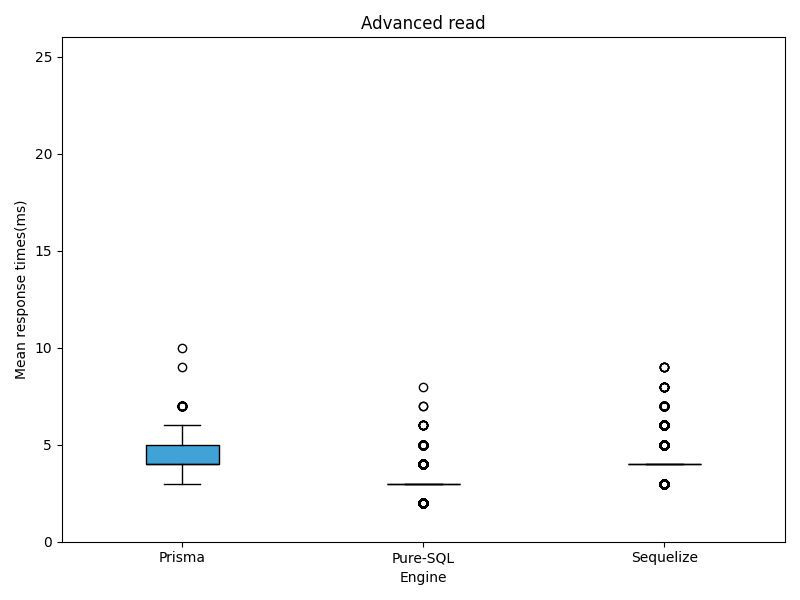
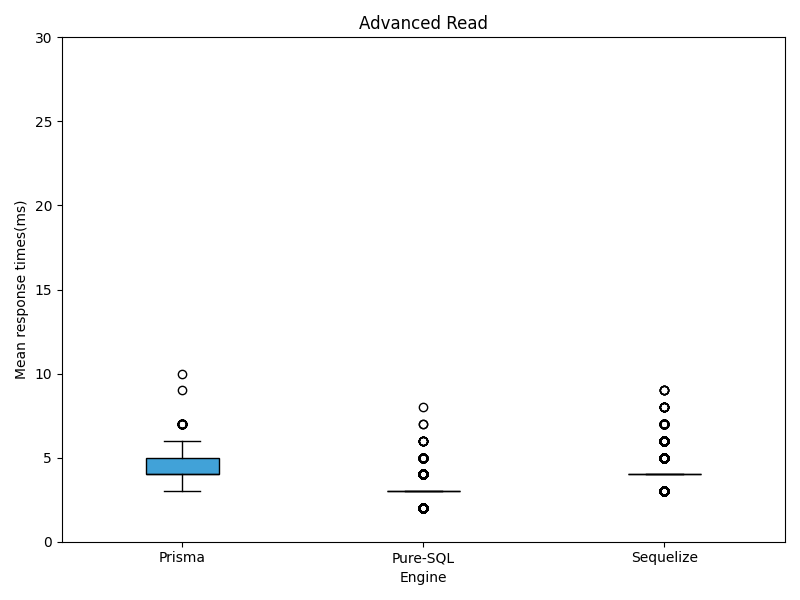
super speed graphs have been made

diff --git a/python-scripts/box-plot-speed-graph.py b/python-scripts/box-plot-speed-graph.py
@@ -7,7 +7,7 @@ import matplotlib.pyplot as plt
 import scipy.stats as stats
 import statsmodels.stats.api as sm
 
-Title = "Advanced read"        # Decides the title
+Title = "Read Respons Time"        # Decides the title
 
 def extract_newman_times(filename):
     with open(filename, 'r') as f:
@@ -17,26 +17,71 @@ def extract_newman_times(filename):
 
     return times_list
 
-prisma_times = extract_newman_times("reports/Select/report-Prisma_AdvancedSelect-10000-16-42-06.json")
-sequelize_times = extract_newman_times("reports/Select/report-Sequelize_AdvancedSelect-10000-15-24-00.json")
-sql_times = extract_newman_times("reports/Select/report-SQL_AdvancedSelect-10000-15-39-57.json")
+#--------------------#
+#  Postgres Results  #
+#--------------------#
+post_A_prisma_times = extract_newman_times("reports/Select/report-Prisma_AdvancedSelect-10000-16-42-06.json")
+post_A_sequelize_times = extract_newman_times("reports/Select/report-Sequelize_AdvancedSelect-10000-15-24-00.json")
+post_A_sql_times = extract_newman_times("reports/Select/report-SQL_AdvancedSelect-10000-15-39-57.json")
+post_S_prisma_times = extract_newman_times("reports/Select/report-Prisma_SimpleSelect-10000-16-22-29.json")
+post_S_sequelize_times = extract_newman_times("reports/Select/report-Sequelize_SimpleSelect-10000-14-57-10.json")
+post_S_sql_times = extract_newman_times("reports/Select/report-SQL_SimpleSelect-10000-14-40-09.json")
+
+#-----------------#
+#  Maria Results  #
+#-----------------#
+maria_A_prisma_times = extract_newman_times("reports/Select/report-Prisma_AdvancedSelect-10000-16-42-06.json")
+maria_A_sequelize_times = extract_newman_times("reports/Select/report-Sequelize_AdvancedSelect-10000-15-24-00.json")
+maria_A_sql_times = extract_newman_times("reports/Select/report-SQL_AdvancedSelect-10000-15-39-57.json")
+maria_S_prisma_times = extract_newman_times("reports/Select/report-Prisma_SimpleSelect-10000-16-22-29.json")
+maria_S_sequelize_times = extract_newman_times("reports/Select/report-Sequelize_SimpleSelect-10000-14-57-10.json")
+maria_S_sql_times = extract_newman_times("reports/Select/report-SQL_SimpleSelect-10000-14-40-09.json")
 
 engines = ['Prisma', 'Pure-SQL', 'Sequelize']
-all_time = [prisma_times, sql_times, sequelize_times]
 
-plt.figure(figsize=(8, 6))
-bp = plt.boxplot(all_time, tick_labels=engines, patch_artist=True, medianprops={"color": "#000000"})
+post_A_all_time = [post_A_prisma_times, post_A_sql_times, post_A_sequelize_times]
+post_S_all_time = [post_S_prisma_times, post_S_sql_times, post_S_sequelize_times]
+
+maria_A_all_time = [maria_A_prisma_times, maria_A_sql_times, maria_A_sequelize_times]
+maria_S_all_time = [maria_S_prisma_times, maria_S_sql_times, maria_S_sequelize_times]
 
 colors = ['#41a2d8', '#D87741', '#57d841']
 
-for patch, color in zip(bp['boxes'], colors):
-    patch.set_facecolor(color)
+fig, axs = plt.subplots(2, 2, sharey=True)
+plt.ylim(bottom=0, top=30)
 
-plt.ylim(bottom=0, top=26)
+#---------------------#
+#  Postgres Advanced  #
+#---------------------#
+axs[0, 0].boxplot(post_A_all_time, tick_labels=engines, patch_artist=True, medianprops={"color": "#000000"})
+axs[0, 0].set_title('PostgreSQL Advanced')
 
-plt.title(Title)
-plt.ylabel('Mean response times(ms)')
-plt.xlabel('Query engine')
+#-------------------#
+#  Postgres Simple  #
+#-------------------#
+axs[0, 1].boxplot(post_S_all_time, tick_labels=engines, patch_artist=True, medianprops={"color": "#000000"})
+axs[0, 1].set_title('PostgreSQL Simple')
+
+#------------------#
+#  Maria Advanced  #
+#------------------#
+axs[1, 0].boxplot(maria_A_all_time, tick_labels=engines, patch_artist=True, medianprops={"color": "#000000"})
+axs[1, 0].set_title('MariaDB Advanced')
+
+#----------------#
+#  Maria Simple  #
+#----------------#
+axs[1, 1].boxplot(maria_S_all_time, tick_labels=engines, patch_artist=True, medianprops={"color": "#000000"})
+axs[1, 1].set_title('MariaDB Simple')
+
+for ax in axs.flat:
+    ax.label_outer()
+
+plt.suptitle(Title)
+
+fig.supylabel('Mean response times(ms)')
+fig.supxlabel('Engines')
 
 plt.tight_layout()
 plt.show()
+